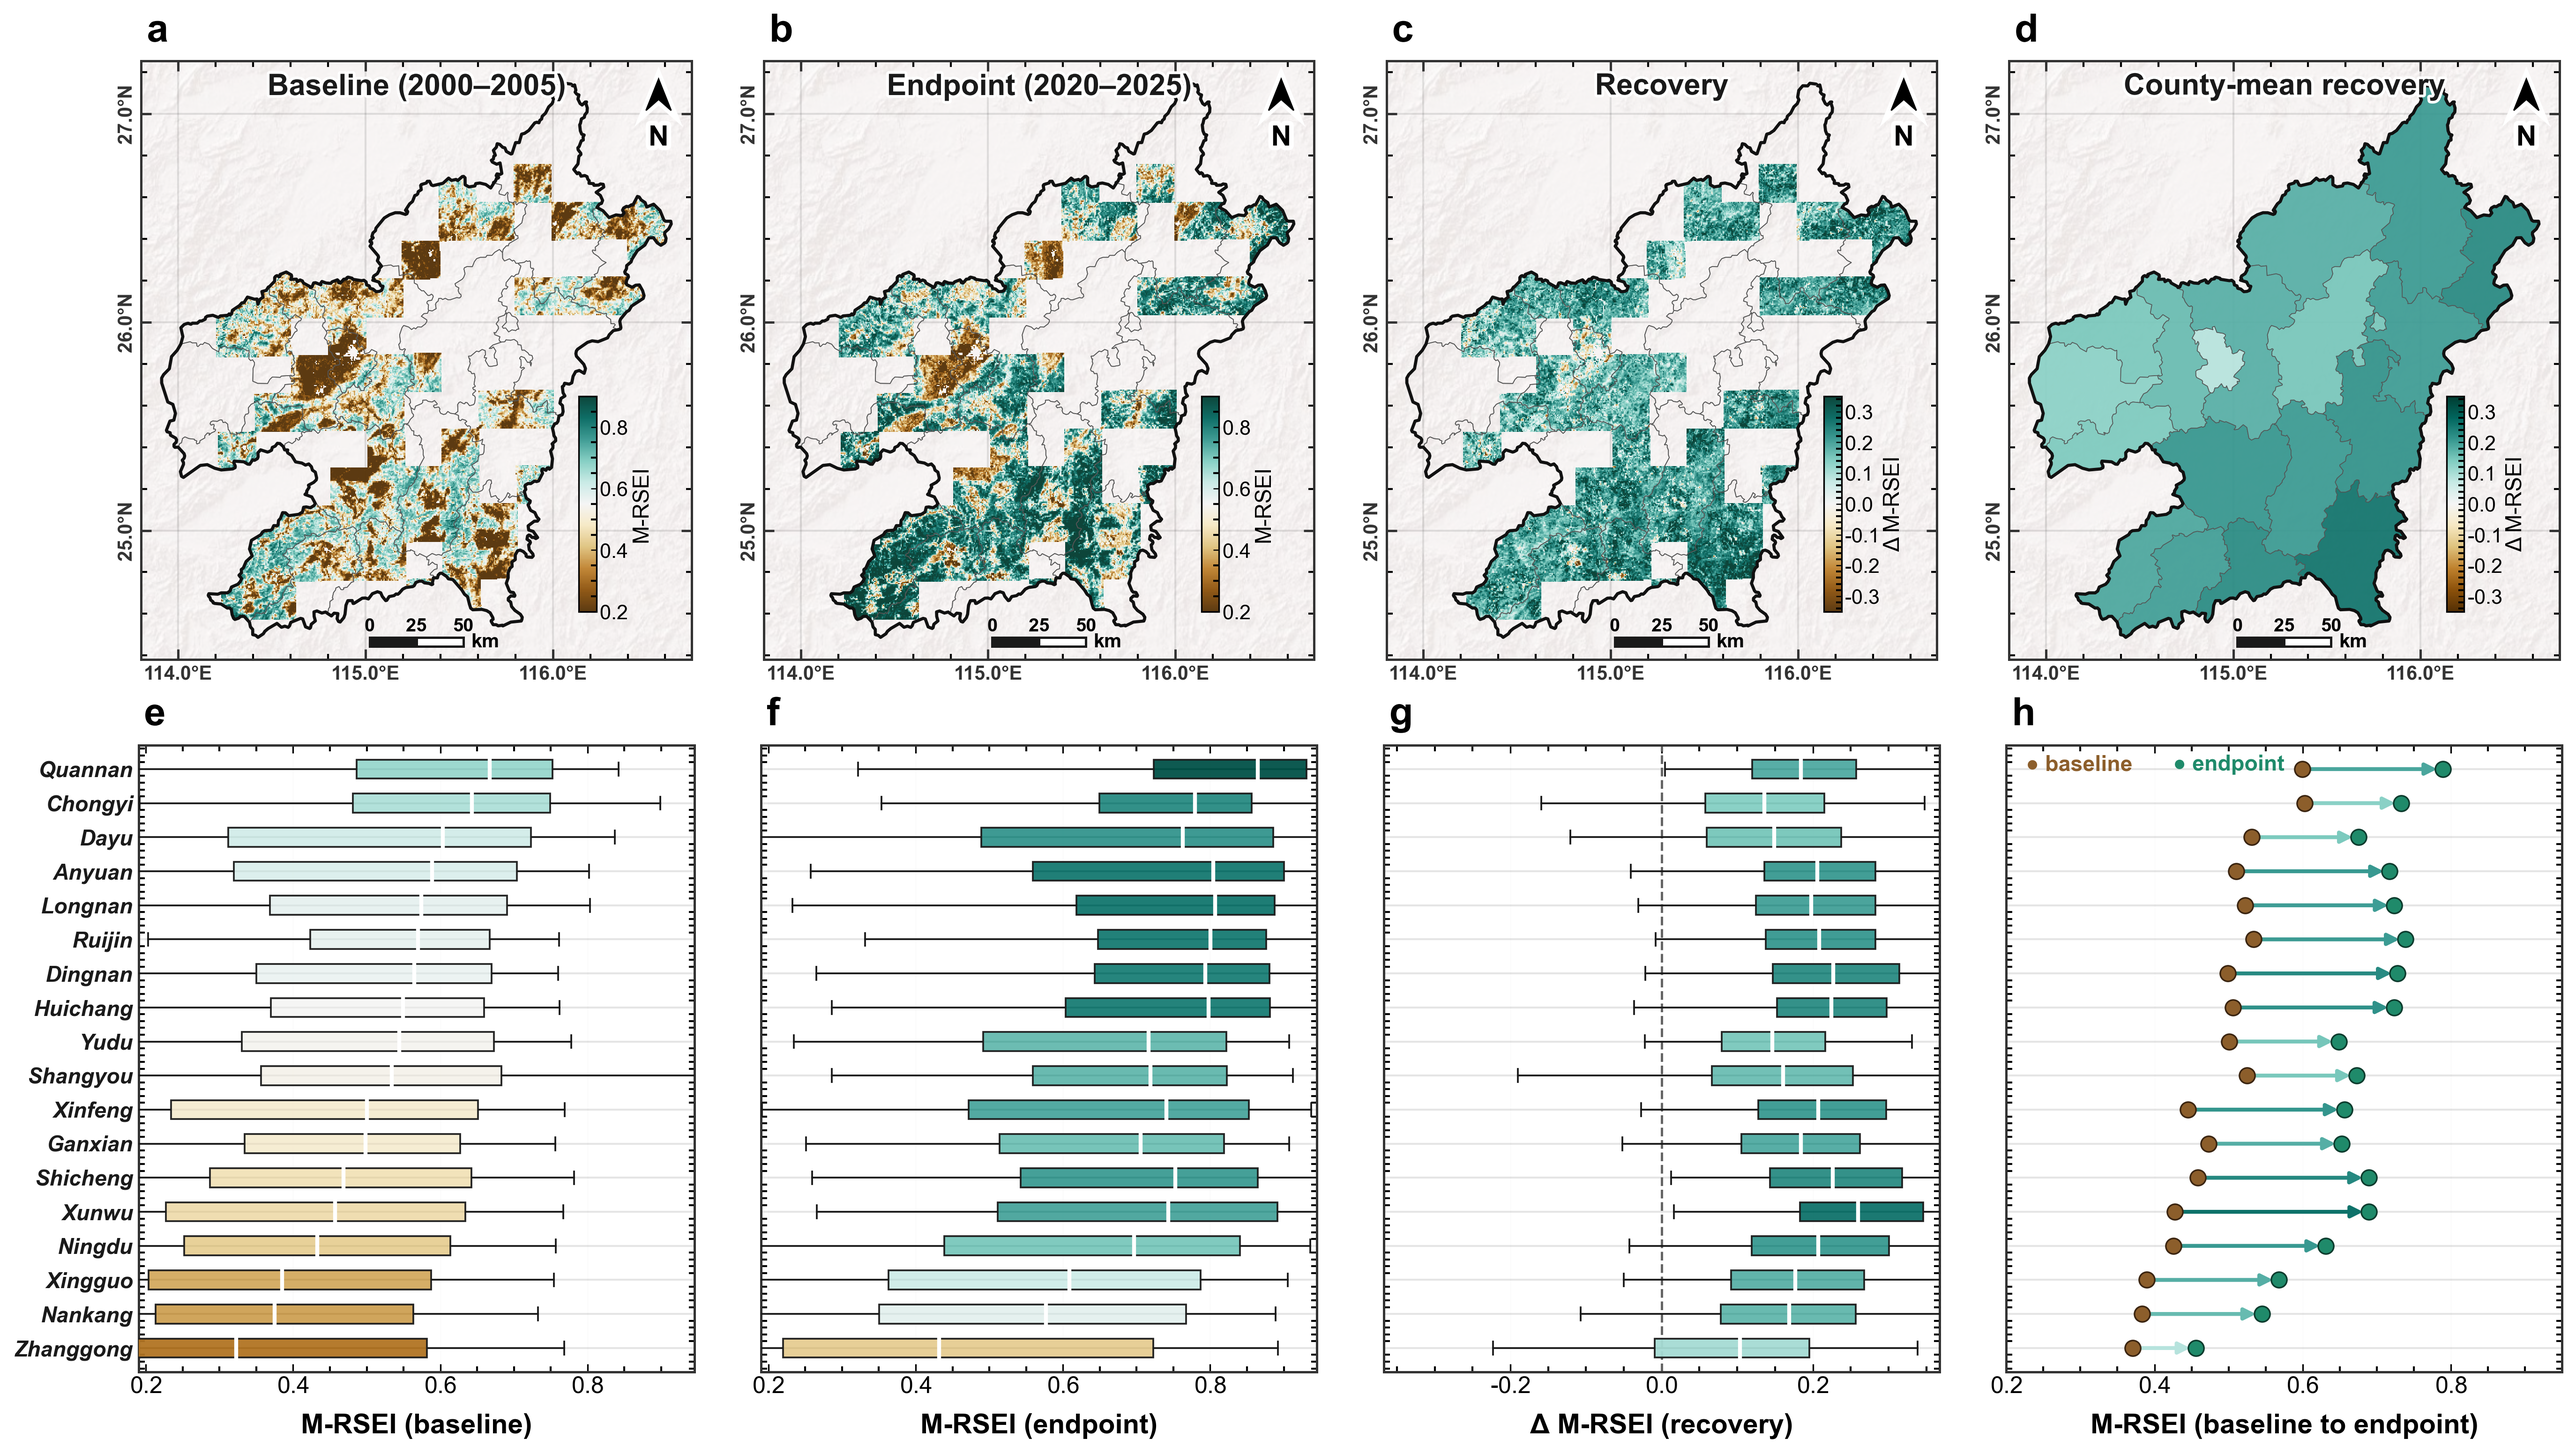
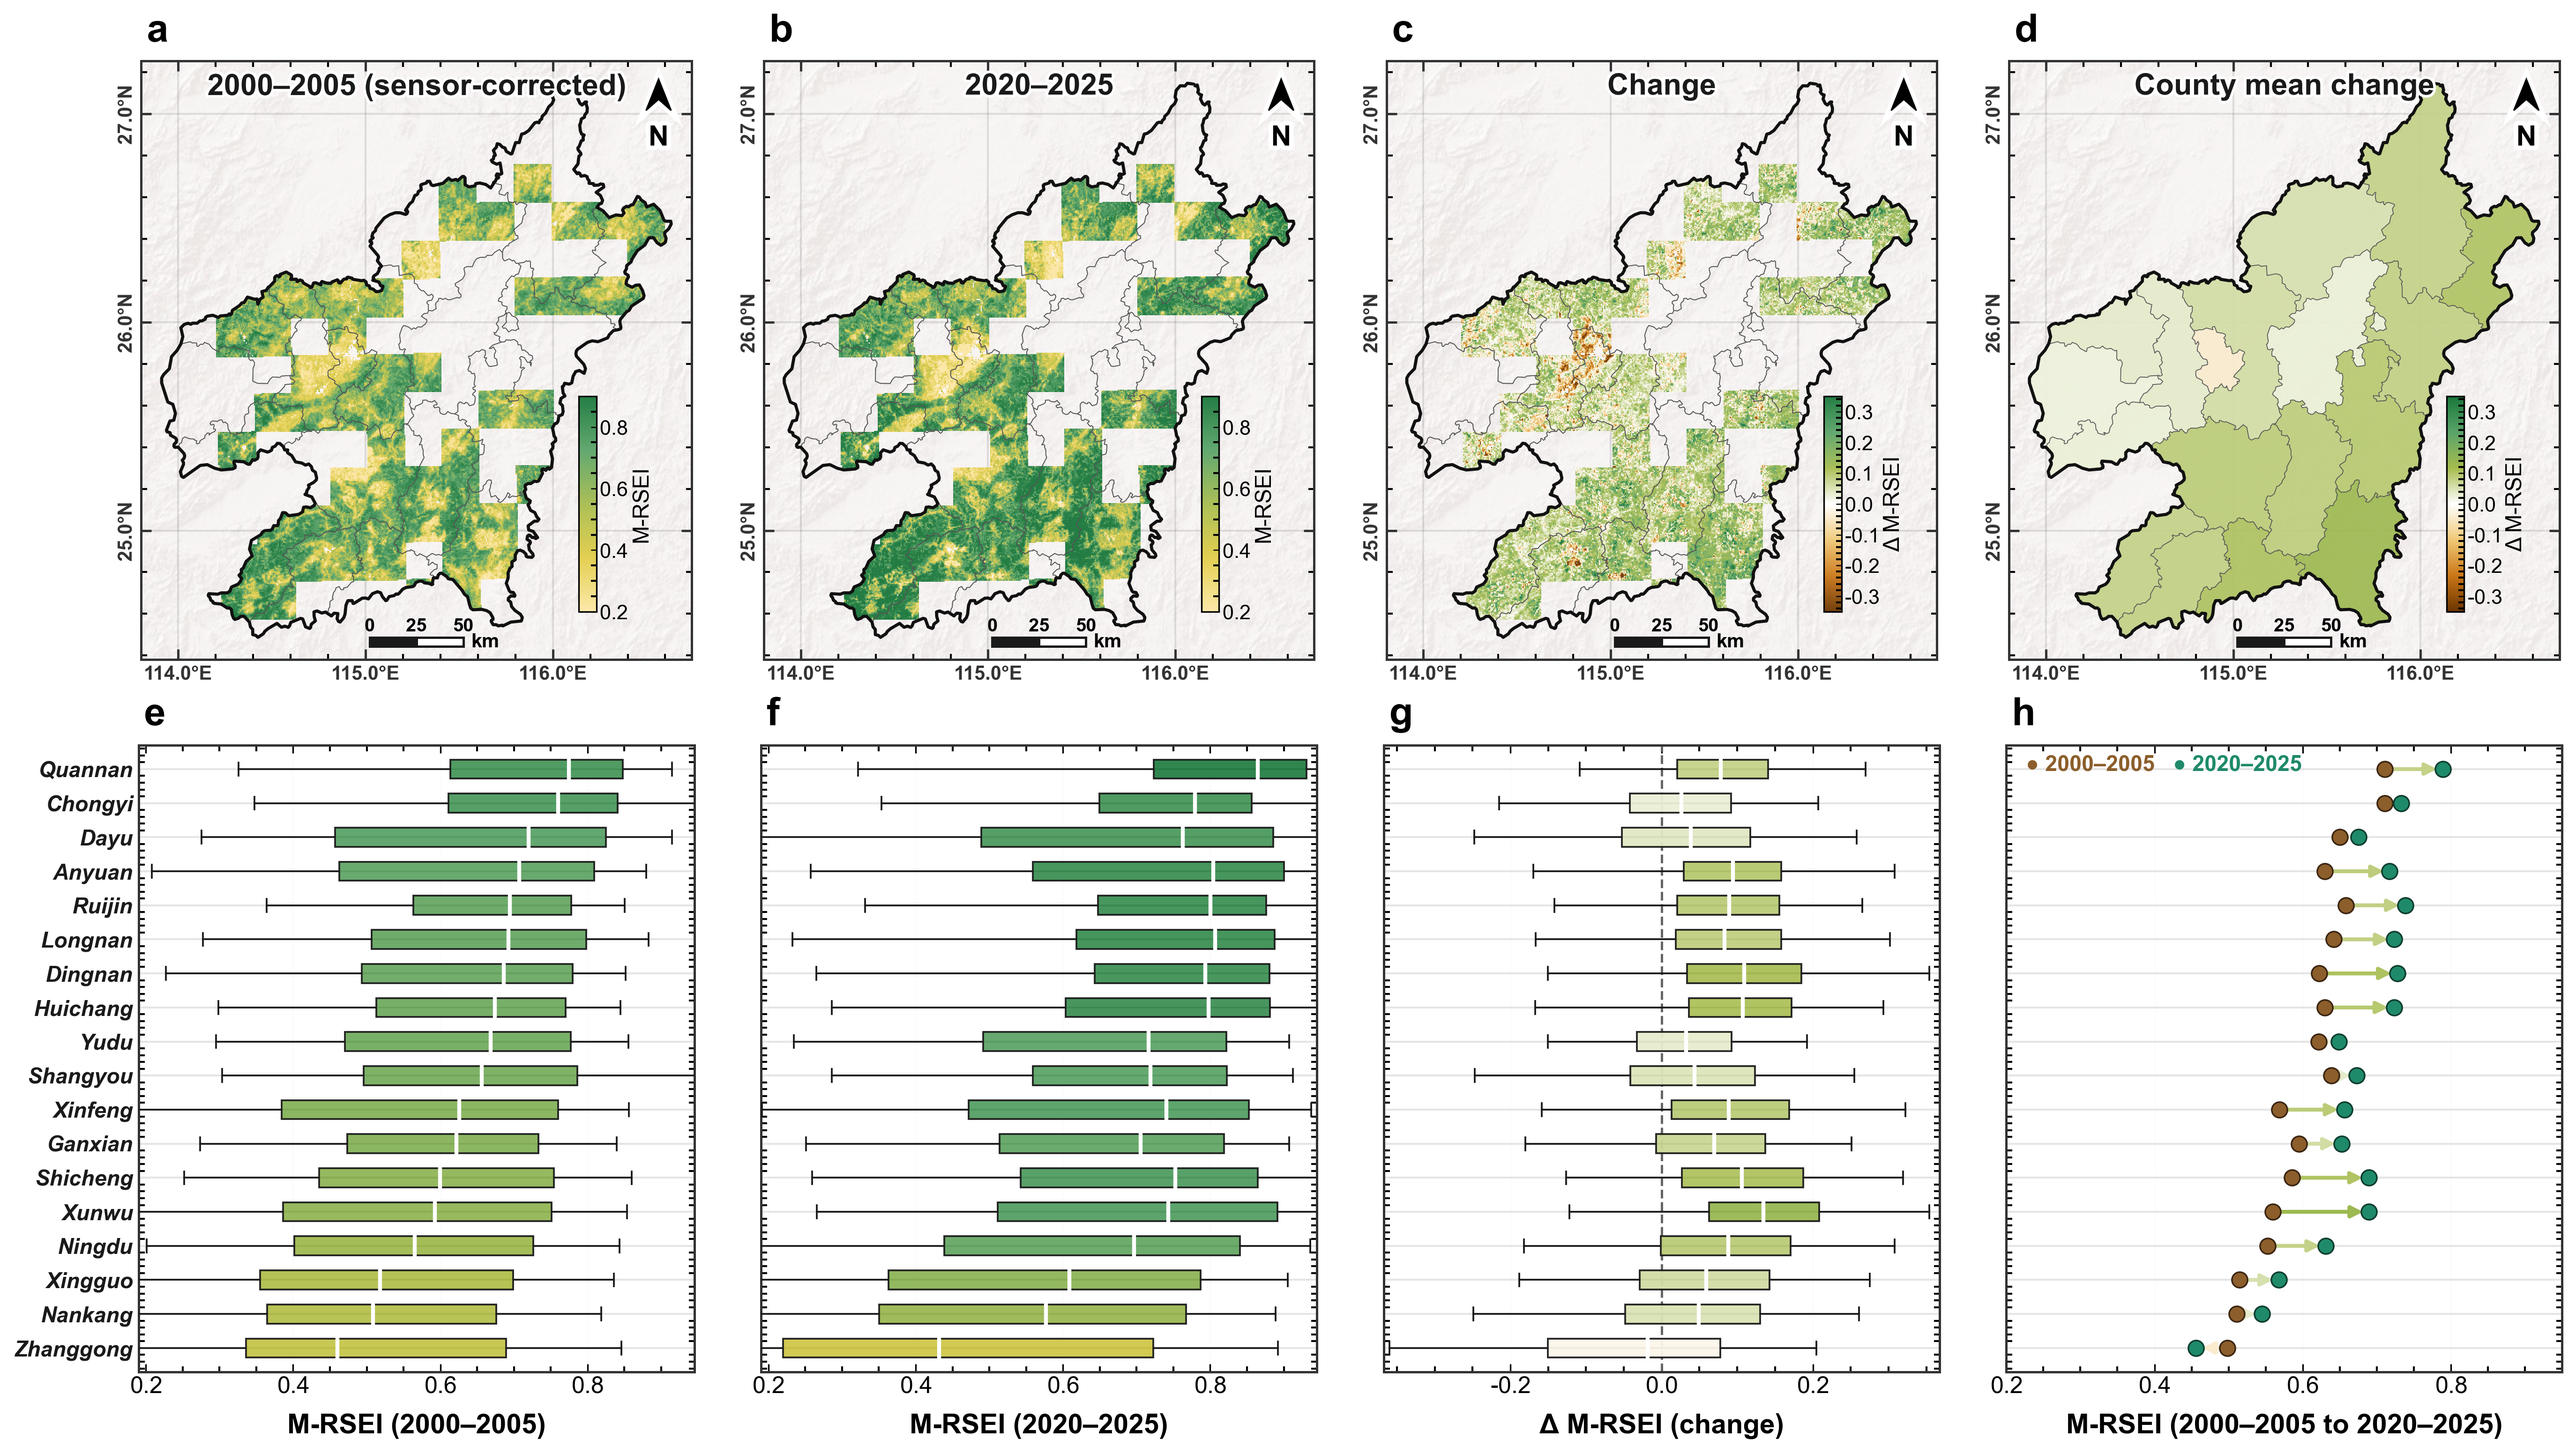
Update README title and figures to the revised manuscript

diff --git a/README.md b/README.md
@@ -3,13 +3,14 @@
 Companion demonstration code and synthetic sample data for the M-RSEI and
 GeoShapley location attribution workflow, released alongside the manuscript
 
-> Local ecological constraints on recovery in China's main ion-adsorption
-> rare-earth mining landscape (under review)
+> Satellite assessment of ecological condition and associated recovery
+> constraints in China's main ion adsorption rare earth mining landscape
+> from 2000 to 2025 (under review)
 
-The workflow reads a heat and pollution sensitive remote sensing ecological
-index (M-RSEI), fits gradient boosting models, and reads the model with
-GeoShapley so that geographic location enters the attribution as a coalition
-player alongside the environmental predictors.
+The workflow reads a mining-adapted remote sensing ecological index (M-RSEI),
+fits gradient boosting models, and reads the model with GeoShapley so that
+geographic location enters the attribution as a coalition player alongside
+the environmental predictors.
 
 ## What this repository contains
 
@@ -17,7 +18,7 @@ This repository provides a small, self-contained reference implementation so
 that other groups can reproduce the index construction, the gradient boosting
 attribution, the location-as-player idea, and the basic mapping workflow on
 their own data. It does not contain the full source datasets, the GEE-side
-preprocessing pipeline, or the manuscript text or figures.
+preprocessing pipeline, or the manuscript text.
 
 ```
 demo_data/
@@ -33,8 +34,9 @@ demo_code/
 
 figures/
   Fig01 ... Fig13 PNG
-  Rendered PNG copies of the manuscript figures, provided for quick visual
-  reference. See the manuscript captions for full panel descriptions.
+  Rendered PNG copies of the figures in the revised manuscript, provided for
+  quick visual reference. See the manuscript captions for full panel
+  descriptions.
 ```
 
 ## Quick start
@@ -73,8 +75,9 @@ The manuscript itself draws on publicly available remote-sensing products:
 - TerraClimate monthly climate and water balance (Abatzoglou et al. 2018)
 - SoilGrids 2.0 soil properties (Poggio et al. 2021)
 - SRTM 30 m elevation
-- Registered mining-right inventory (Ganzhou Natural Resource Bureau, available
-  under the original access conditions of the data provider)
+- MODIS MCD12Q1 land cover and NPP-VIIRS-like nighttime lights
+- Registry of rare earth mineral sites (Ganzhou Natural Resources Bureau,
+  available under the original access conditions of the data provider)
 
 This repository does not redistribute these sources; consult each provider for
 licence terms and access.
